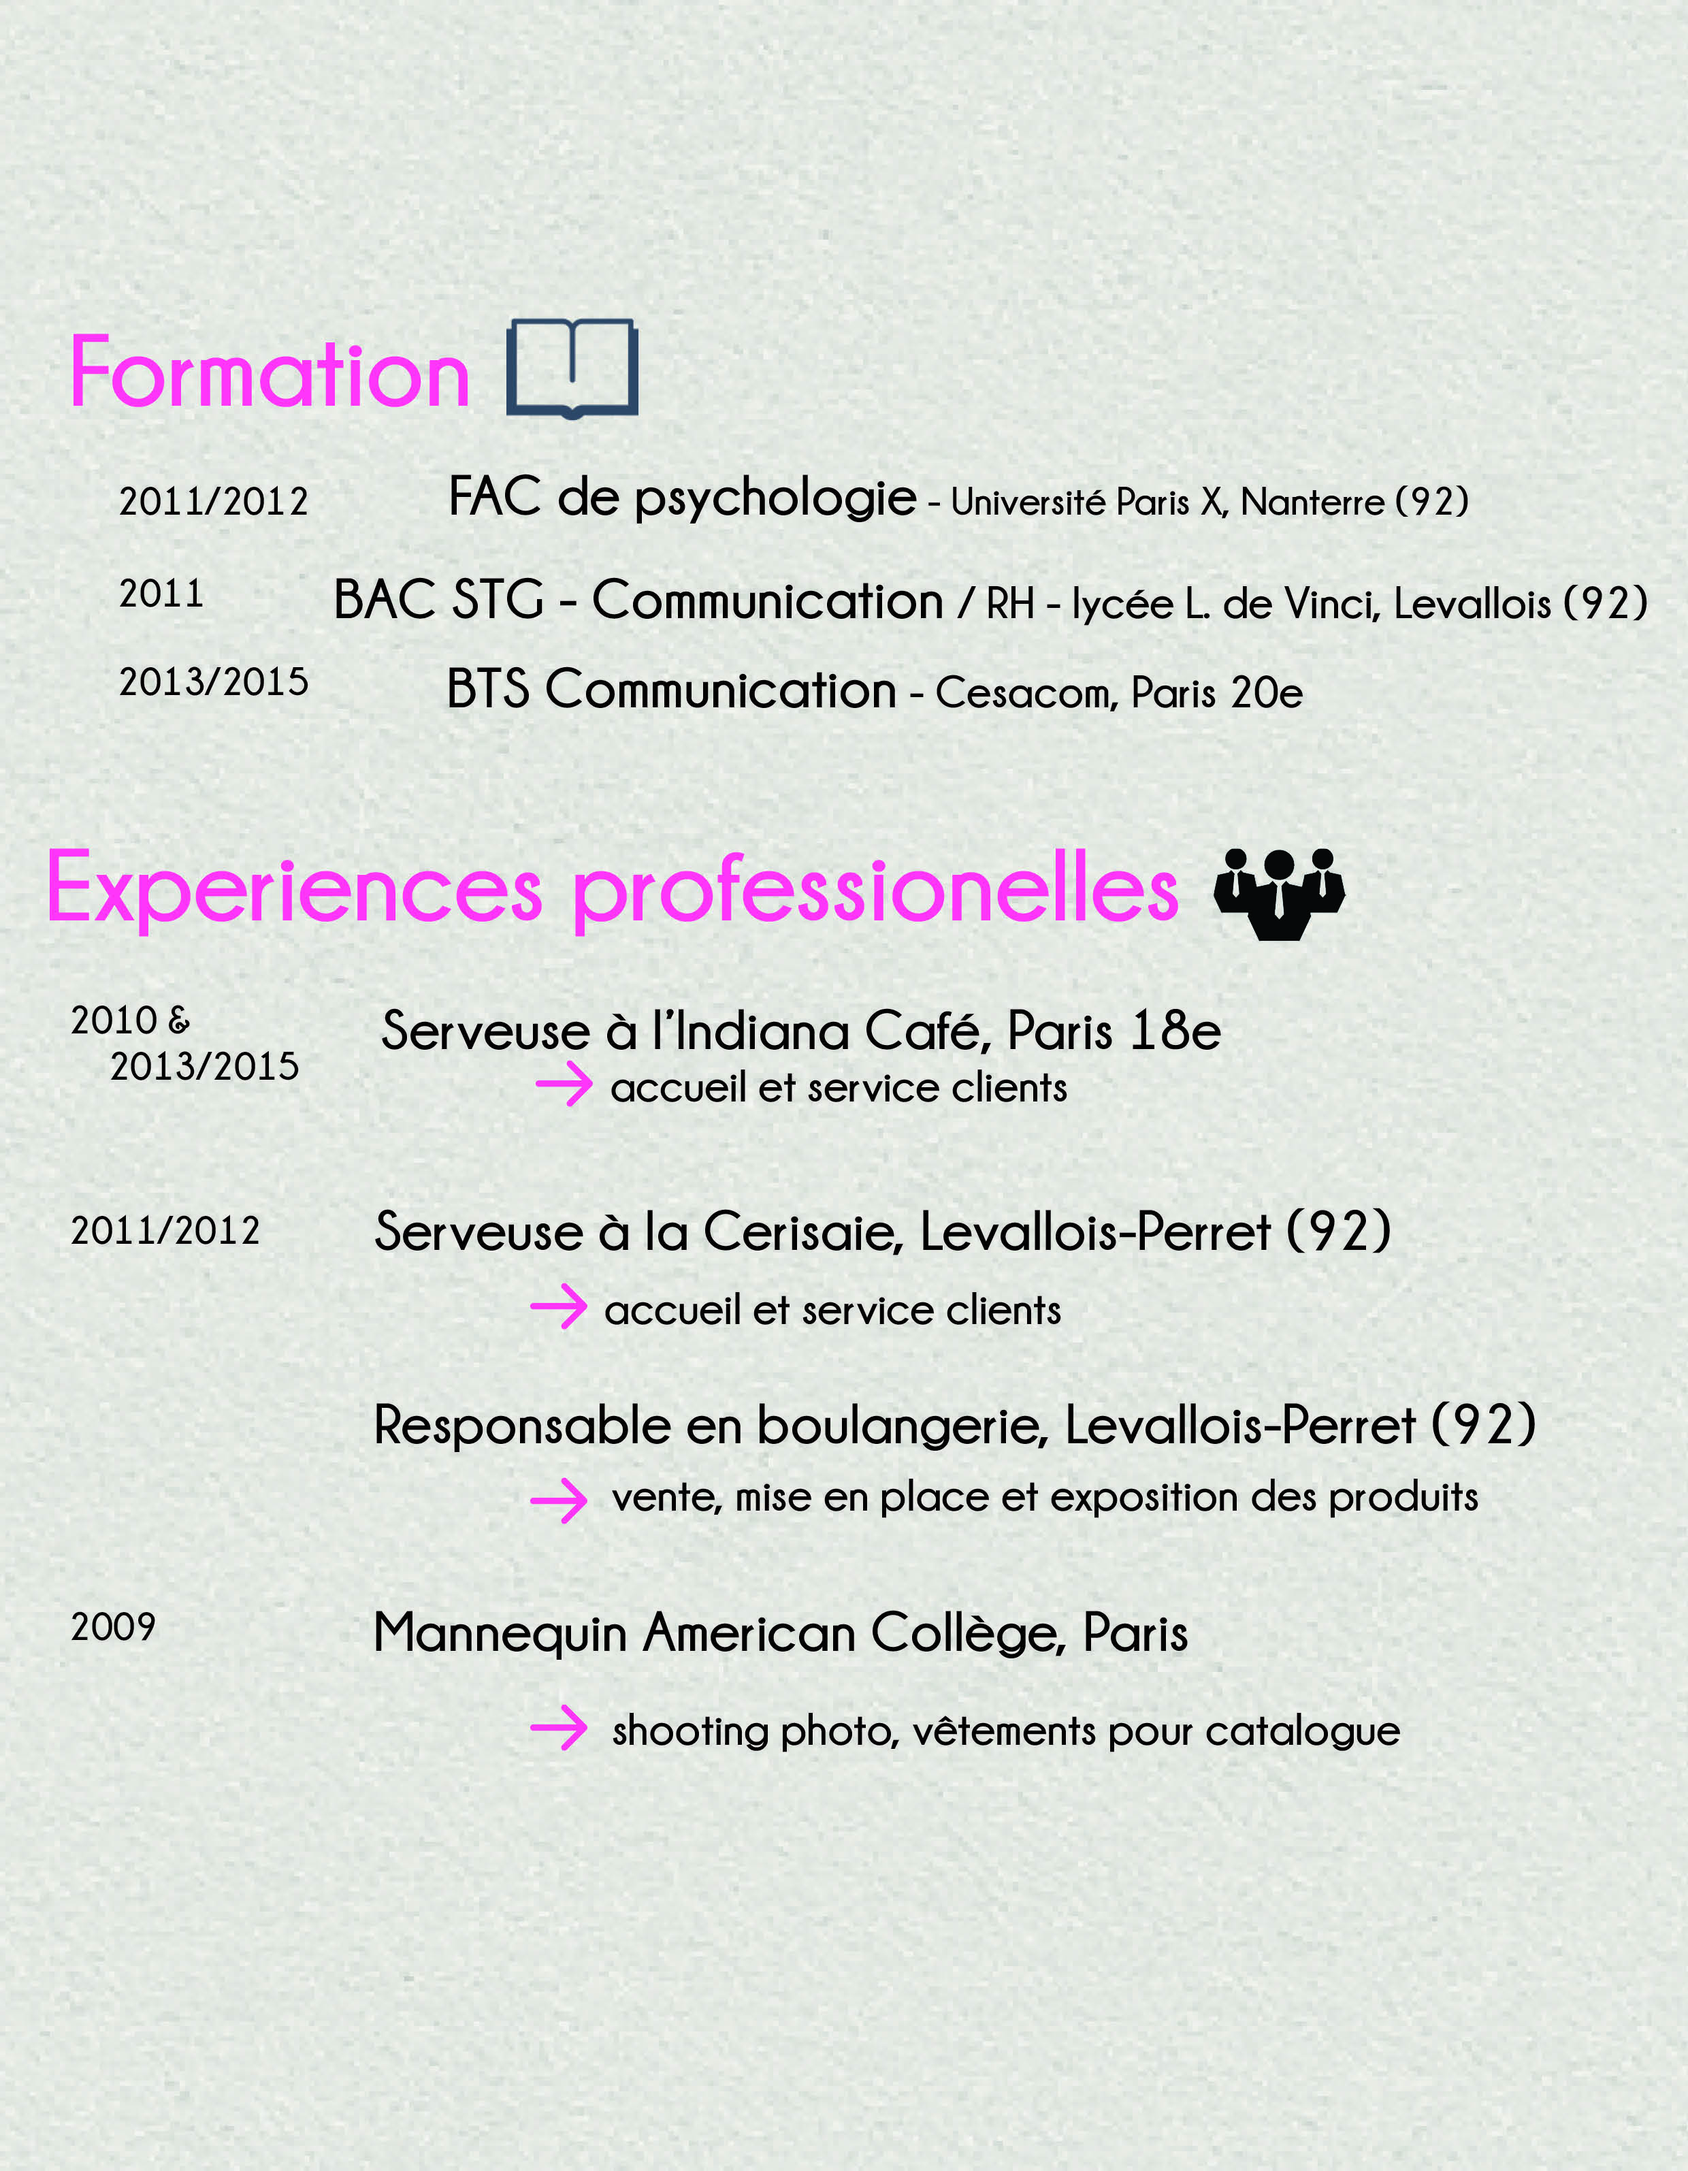
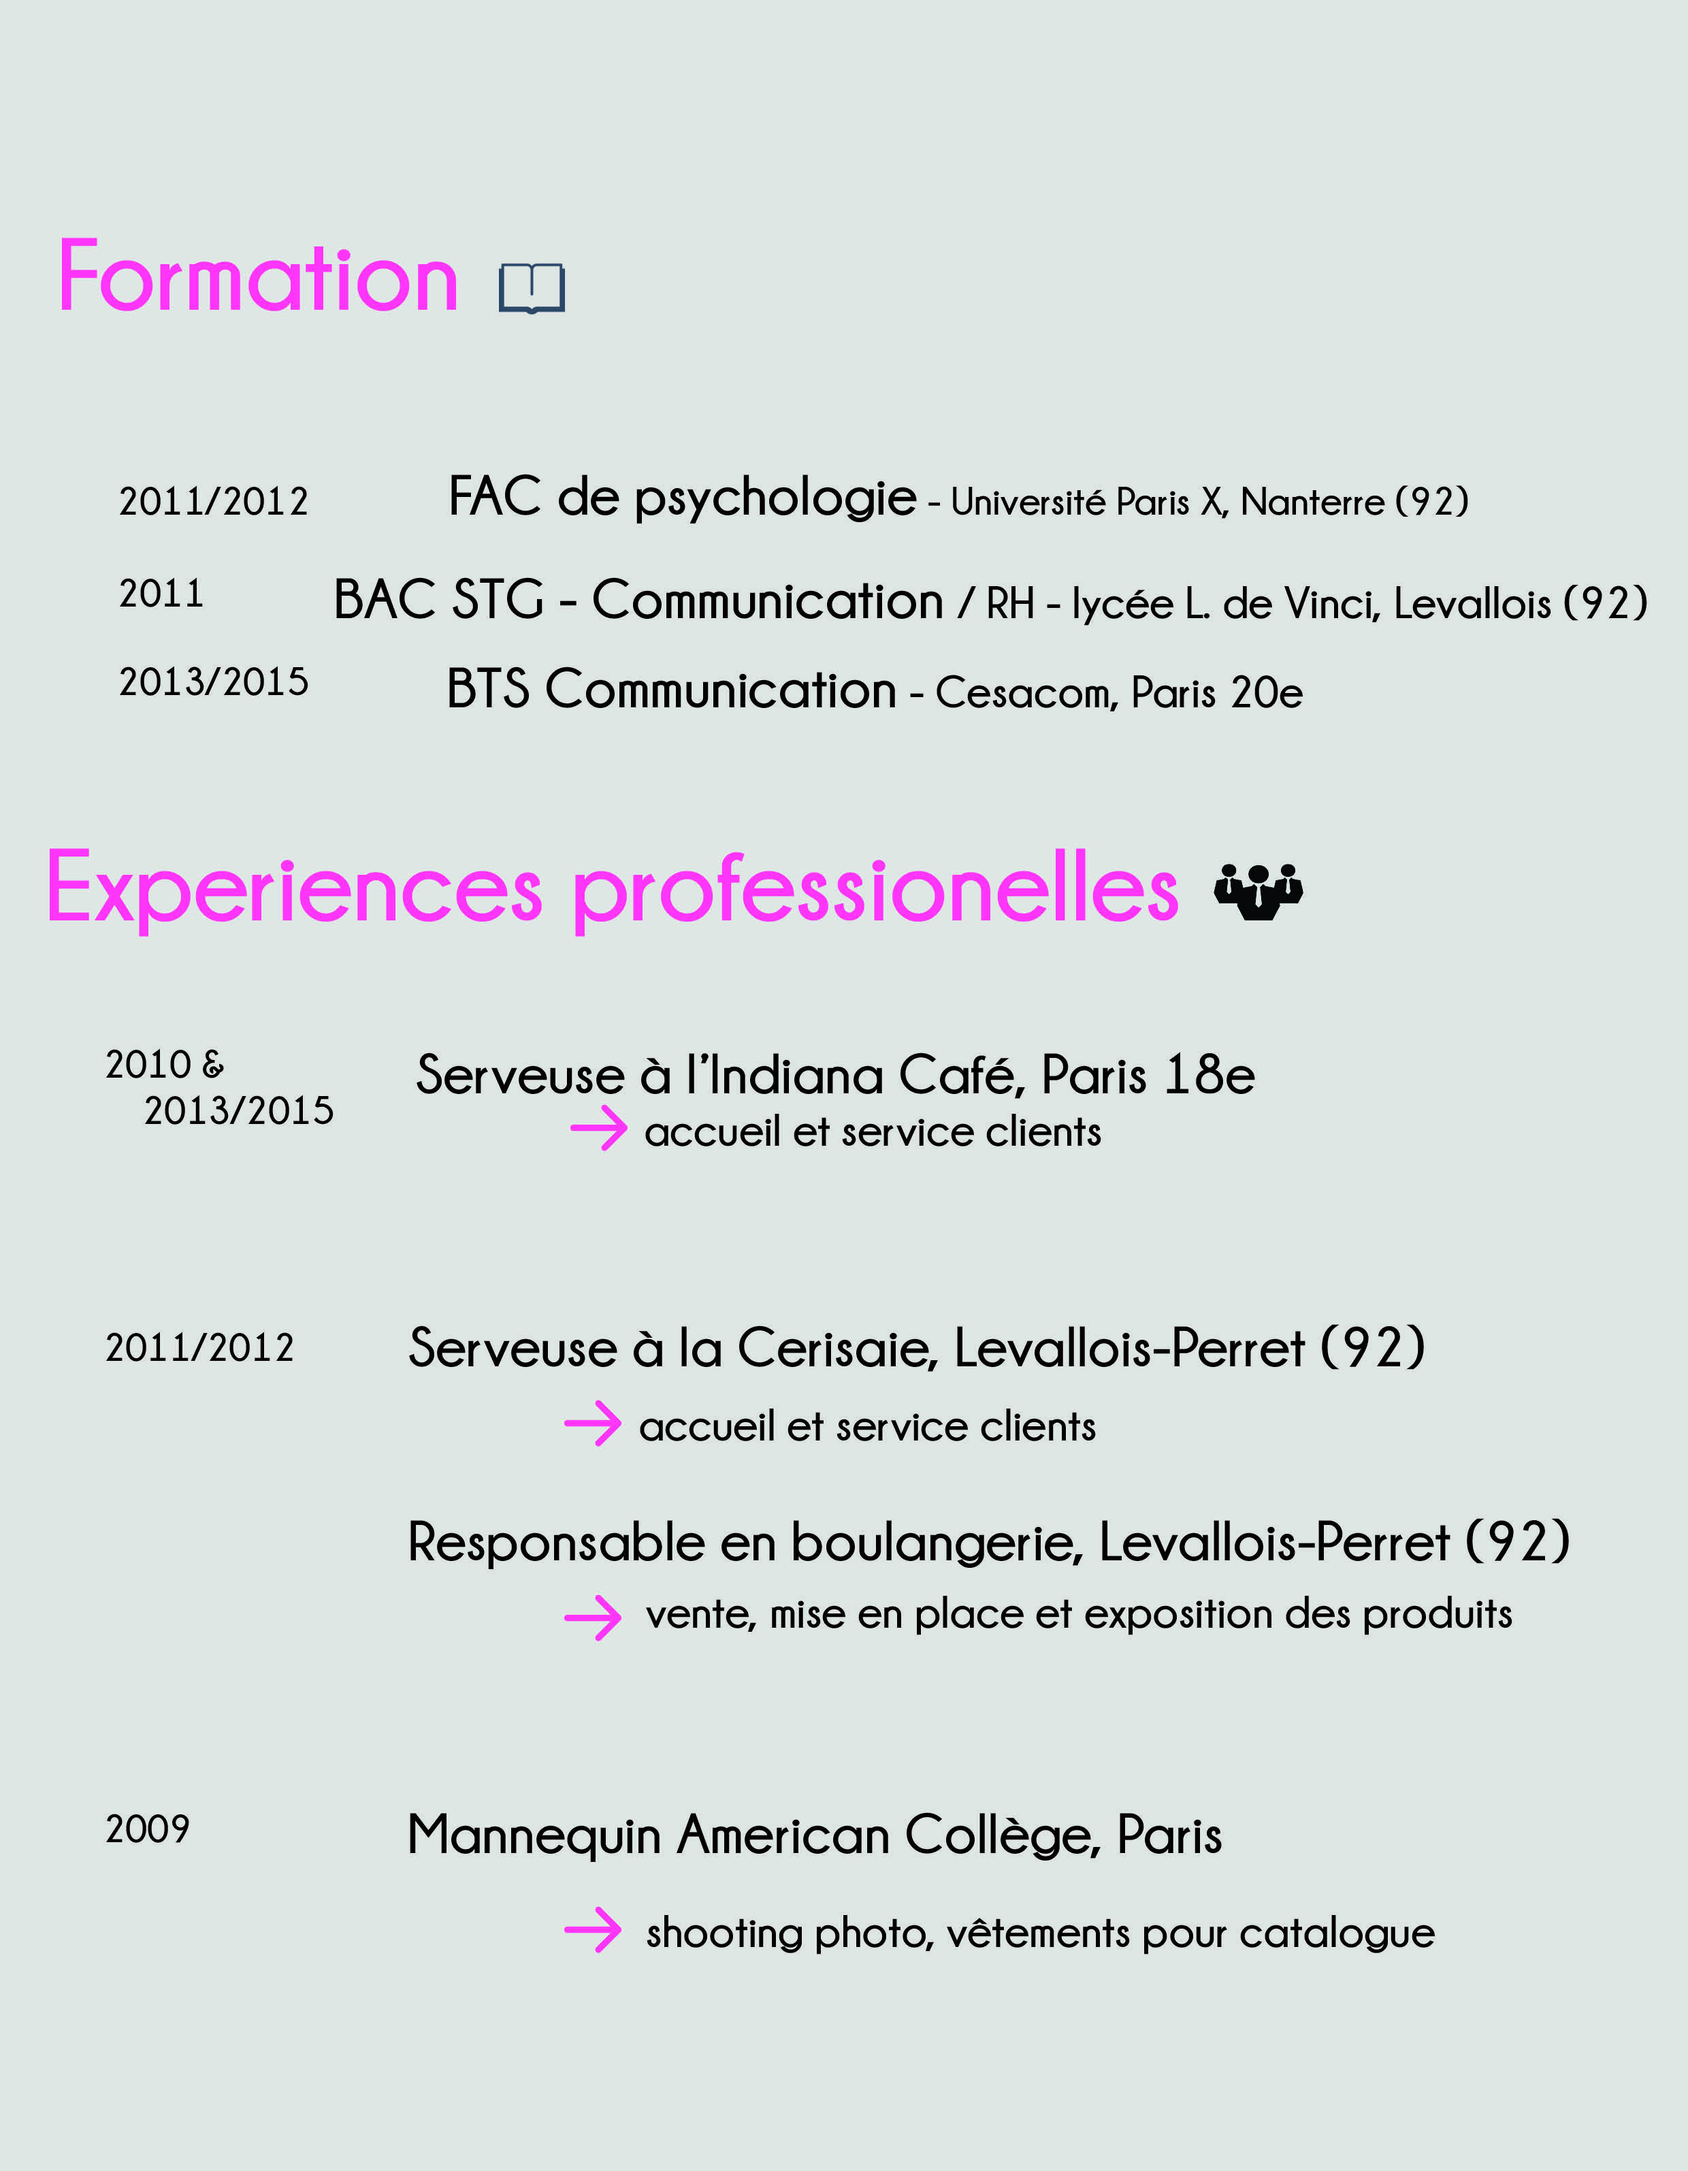
Contact

diff --git a/parcours.html b/parcours.html
@@ -20,17 +20,24 @@
             <img src="Images/profil.jpg" alt="photo de profil" width="250px">
         </div>
         
-        <h3>Formation <img src="Images/formation.png" alt="Formation" width="50px" class="icon-title"> </h3>
-           
-            
+       
+               
     </main>
     
-<footer>
+ <footer>
+        <h2>Contact</h2>
+        
         <ul>
-            <li><a href="https://www.facebook.com/Zazouzz" target="_blank"><img src="images/Facebook.png" alt="Facebook" width="20px"></a>
-            <li><a href="https://www.linkedin.com/profile/view?id=190305372&trk=nav_responsive_tab_profile" target="_blank"><img src="Images/linkedin.png" alt="Linkedin" width="20px"></a></li>  
+            <li><a href="https://www.facebook.com/Zazouzz" target="_blank"><img src="images/facebook%20blanc.png" alt="Facebook" width="35px"></a>
+            
+            <li><img src="Images/mail%20blanc.png" alt="mail" width="50px"></div><div class="mail"><span> zoelebras@hotmail.fr</span></div> </li>
+            
+            <li><a href="https://www.linkedin.com/profile/view?id=190305372&trk=nav_responsive_tab_profile" target="_blank"><img src="Images/linkedin%20blanc.png" alt="Linkedin" width="35px"></a></li>  
             </li>
+    
         </ul>
+        
+        
     </footer>
     
 </body>

diff --git a/index.html b/index.html
@@ -38,11 +38,19 @@
     
     
     <footer>
+        <h2>Contact</h2>
+        
         <ul>
-            <li><a href="https://www.facebook.com/Zazouzz" target="_blank"><img src="images/facebook noir.png" alt="Facebook" width="35px"></a>
-            <li><a href="https://www.linkedin.com/profile/view?id=190305372&trk=nav_responsive_tab_profile" target="_blank"><img src="Images/linkedin%20noir.png" alt="Linkedin" width="35px"></a></li>  
+            <li><a href="https://www.facebook.com/Zazouzz" target="_blank"><img src="images/facebook%20blanc.png" alt="Facebook" width="35px"></a>
+            
+            <li><img src="Images/mail%20blanc.png" alt="mail" width="50px"></div><div class="mail"><span> zoelebras@hotmail.fr</span></div> </li>
+            
+            <li><a href="https://www.linkedin.com/profile/view?id=190305372&trk=nav_responsive_tab_profile" target="_blank"><img src="Images/linkedin%20blanc.png" alt="Linkedin" width="35px"></a></li>  
             </li>
+    
         </ul>
+        
+        
     </footer>
     
 </body>

diff --git a/competences.html b/competences.html
@@ -25,11 +25,19 @@
     </main>
     
  <footer>
+        <h2>Contact</h2>
+        
         <ul>
-            <li><a href="https://www.facebook.com/Zazouzz" target="_blank"><img src="images/Facebook.png" alt="Facebook" width="20px"></a>
-            <li><a href="https://www.linkedin.com/profile/view?id=190305372&trk=nav_responsive_tab_profile" target="_blank"><img src="Images/linkedin.png" alt="Linkedin" width="20px"></a></li>  
+            <li><a href="https://www.facebook.com/Zazouzz" target="_blank"><img src="images/facebook%20blanc.png" alt="Facebook" width="35px"></a>
+            
+            <li><img src="Images/mail%20blanc.png" alt="mail" width="50px"></div><div class="mail"><span> zoelebras@hotmail.fr</span></div> </li>
+            
+            <li><a href="https://www.linkedin.com/profile/view?id=190305372&trk=nav_responsive_tab_profile" target="_blank"><img src="Images/linkedin%20blanc.png" alt="Linkedin" width="35px"></a></li>  
             </li>
+    
         </ul>
+        
+        
     </footer>
     
 </body>

diff --git a/style.css b/style.css
@@ -1,5 +1,5 @@
 body{
-    background-image: url(Images/sandpaper.png);
+    background-color: #D3D3D3;
     margin: 0;
         
 }
@@ -64,15 +64,25 @@ p{
 }
 
 footer {
-    background-color: grey;
     color: white;
     text-decoration:none;
+    background-color: grey;
+    
 }
 
 footer li {
     display: inline-block;
-    width: 50%;
-    text-align: center; 
+    width: 33%;
+    text-align: center;
+}
+
+footer li a{
+    background-color: grey;
+    display: inline-block;
+    height:39px;
+    width:39px;
+    padding:5px;
+    padding-top:7px;
 }
 
 h3 .icon-title {
@@ -80,10 +90,7 @@ h3 .icon-title {
     margin-top: 30px;
 }
 
-h3 {
- font-family: sans-serif;
-    color: #FD3F92;
-}
-
-
+.mail {
+    position: relative;
+    bottom: 15px;}
     
